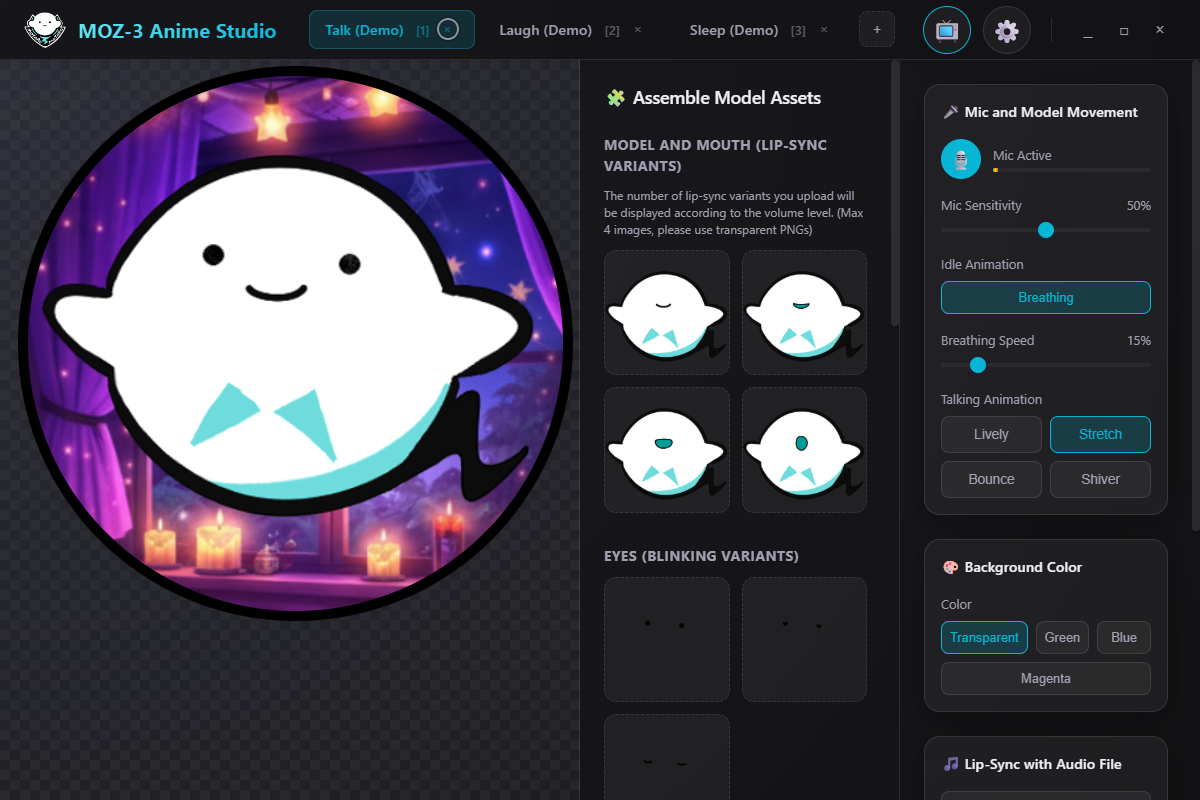
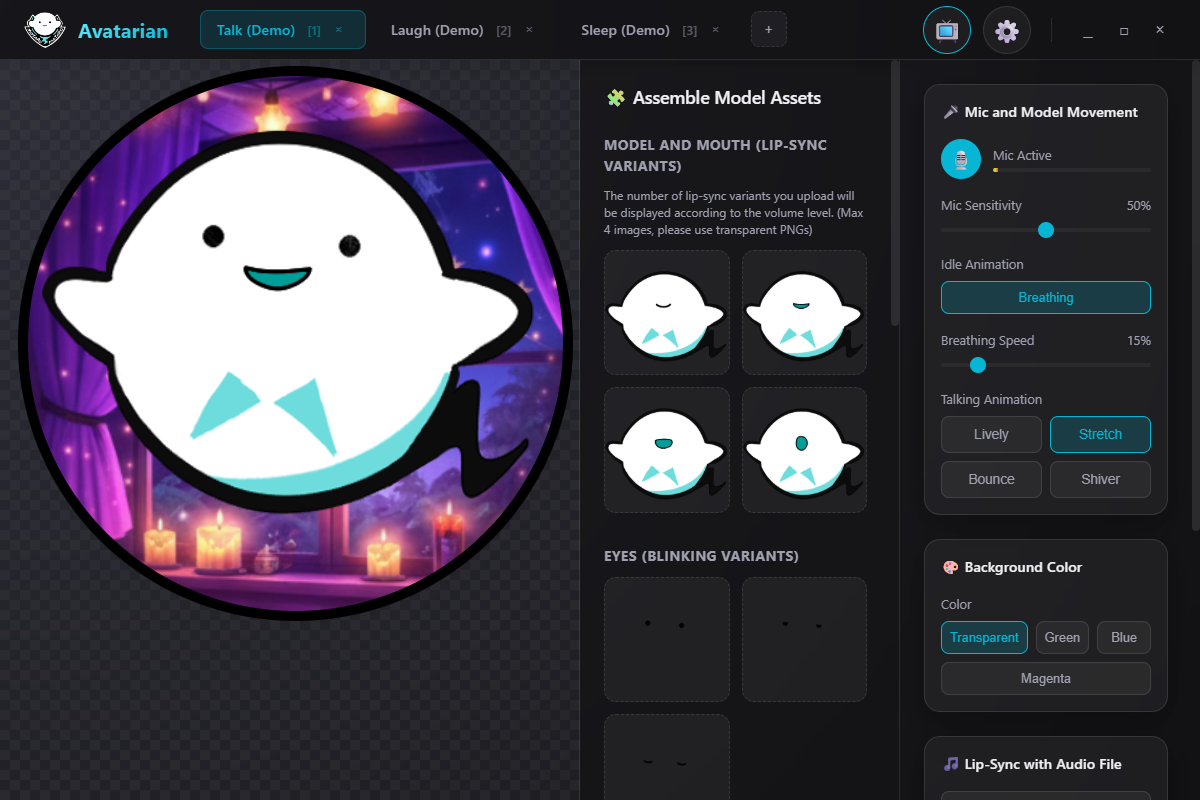
Name app Avatarian, Make sure everyone knows this is a fork.

diff --git a/src/components/AboutModal.jsx b/src/components/AboutModal.jsx
@@ -39,20 +39,15 @@ export default function AboutModal({ isOpen, onClose }) {
                     // --- Terms of Service View ---
                     <div style={{ textAlign: 'left', color: 'var(--text-secondary)' }}>
                         <h3 style={{ marginBottom: '24px', fontSize: '1.2rem', color: 'var(--accent-color)', textAlign: 'center' }}>
-                            📘 "MOZ-3 Anime Studio" Terms of Service
+                            📘 "Avatarian" Terms of Service
                         </h3>
 
                         <div style={{ fontSize: '0.85rem', lineHeight: '1.8', maxHeight: '60vh', overflowY: 'auto', paddingRight: '8px' }}>
                             <p style={{ marginBottom: '16px' }}>
-                                These terms establish the conditions of use for "MOZ-3 Anime Studio" (hereinafter referred to as "this app") provided by the creator, Motaro.
+                                These terms establish the conditions of use for "Avatarian" (hereinafter referred to as "this app") provided by the creator, Motaro.
                             </p>
 
-                            <h4 style={{ color: 'var(--text-primary)', marginTop: '20px', marginBottom: '8px' }}>1. Ownership of Rights</h4>
-                            <p style={{ marginBottom: '16px' }}>
-                                The creator, Motaro, retains copyrights and all other intellectual property rights to all programs, designs, BGM, and characters included in this app.<br />
-                                You are free to use stream screens and video content generated using this app for both commercial and non-commercial purposes.
-                            </p>
-
+                            
                             <h4 style={{ color: 'var(--text-primary)', marginTop: '20px', marginBottom: '8px' }}>2. Prohibited Actions</h4>
                             <p style={{ marginBottom: '16px' }}>
                                 Modification, analysis (reverse engineering), and secondary distribution of the programs and data of this app are strictly prohibited.<br />
@@ -86,22 +81,16 @@ export default function AboutModal({ isOpen, onClose }) {
                             About this app
                         </h3>
 
-                        <div style={{ marginBottom: '24px' }}>
-                            <img
-                                src="./motako.png"
-                                alt="Motako"
-                                style={{ width: '200px', height: 'auto', borderRadius: '8px', boxShadow: '0 4px 12px rgba(0,0,0,0.5)' }}
-                            />
-                        </div>
+                        
 
                         <div style={{ fontSize: '0.9rem', color: 'var(--text-secondary)', lineHeight: '1.8', marginBottom: '32px' }}>
                             <div style={{ fontWeight: 'bold', color: 'var(--text-primary)', marginBottom: '8px', fontSize: '1rem' }}>
-                                MOZ-3 Anime Studio
+                                Avatarian A Fork Of MOZ-3 Anime Studio
                             </div>
-                            <div>Version: v1.0.0 Beta</div>
-                            <div>Creator: Motaro</div>
-                            <div>Character Design: Motaro</div>
-                            <div>BGM: Motaro</div>
+                            <div>Version: v1.0.0</div>
+                            <div>Original Creator: Motaro</div>
+                            <div>Original Character Design: Motaro</div>
+                            
                         </div>
 
                         <div style={{ display: 'flex', flexDirection: 'column', gap: '12px', alignItems: 'center' }}>
@@ -109,7 +98,7 @@ export default function AboutModal({ isOpen, onClose }) {
                                 onClick={handleYoutubeClick}
                                 style={{ background: '#ff0000', color: 'white', padding: '10px 24px', border: 'none', borderRadius: '4px', cursor: 'pointer', fontWeight: 'bold', width: '80%' }}
                             >
-                                ▶ Official YouTube Channel
+                                ▶ Original Creator's Official YouTube Channel
                             </button>
 
                             <button

diff --git a/src/App.jsx b/src/App.jsx
@@ -316,7 +316,7 @@ function App() {
             title="About this app"
           >
             <img src="./logo.png" alt="Logo" className="header-logo" />
-            <div className="header-title">MOZ-3 Anime Studio</div>
+            <div className="header-title">Avatarian</div>
           </div>
           <ExpressionTabs
             tabs={expressions}

diff --git a/electron/main.js b/electron/main.js
@@ -4,11 +4,11 @@ import path from 'path';
 
 
 const isDev = !app.isPackaged;
-app.setName('MOZ-3 Anime Studio');
+app.setName('Avatarian');
 
 function createWindow() {
     const win = new BrowserWindow({
-        title: 'MOZ-3 Anime Studio',
+        title: 'Avatarian',
         width: 1200,
         height: 800,
         minWidth: 800,

diff --git a/index.html b/index.html
@@ -4,7 +4,7 @@
     <meta charset="UTF-8" />
     <link rel="icon" type="image/svg+xml" href="/vite.svg" />
     <meta name="viewport" content="width=device-width, initial-scale=1.0" />
-    <title>MOZ-3 Anime Studio</title>
+    <title>Avatarian</title>
   </head>
   <body>
     <div id="root"></div>

diff --git a/README.md b/README.md
@@ -1,19 +1,19 @@
-# MOZ-3 Anime Studio FORK
+# Avatarian  A MOZ-3 Anime Studio FORK
 
-MOZ-3 Anime Studio is an interactive, Electron and React-based vTuber/avatar studio application. It provides dynamic lip-sync capabilities, animated expressions, and audio analysis to bring 2D avatars to life for streaming or recording.
+Avatarian is an interactive, Electron and React-based vTuber/avatar studio application. It provides dynamic lip-sync capabilities, animated expressions, and audio analysis to bring 2D avatars to life for streaming or recording.
 
 This project is a fork. The original source code can be found here:
 
 https://github.com/motaro-aniki/moz-3-anime-studio
 
 
-![Forked Application Screenshot](screen_shot.png)
+![Avatarian Application Screenshot](screen_shot.png)
 
 Added The following UI Items
 
-![Forked Application Screenshot](screen_shot2.png)
+![Avatarian Application Screenshot](screen_shot2.png)
 
-This Fork Contains the following Changes.
+Avatarian Contains the following Changes From the Original.
 - **Text is now all in English - Translated from Japanese.
 - **There is no more auto-switching between tabs by the app as I found that not suitable for my purposes.
 - **Background Music Feature has been removed.
@@ -38,6 +38,7 @@ Motaro sensei
 
 https://www.youtube.com/channel/UCKetWmeZ8I95zejbTxiNg9Q
 
+A big thank you to Motaro!
 
 I found out about this project from here and originally just wanted to translate to English (I have done a lot more!).
 
@@ -93,6 +94,7 @@ npm run build
 
 
 ## License
+Same license as original code.
 This project is a fork of moz-3-anime-studio, see original repository for licensing.
 
 https://github.com/motaro-aniki/moz-3-anime-studio.
